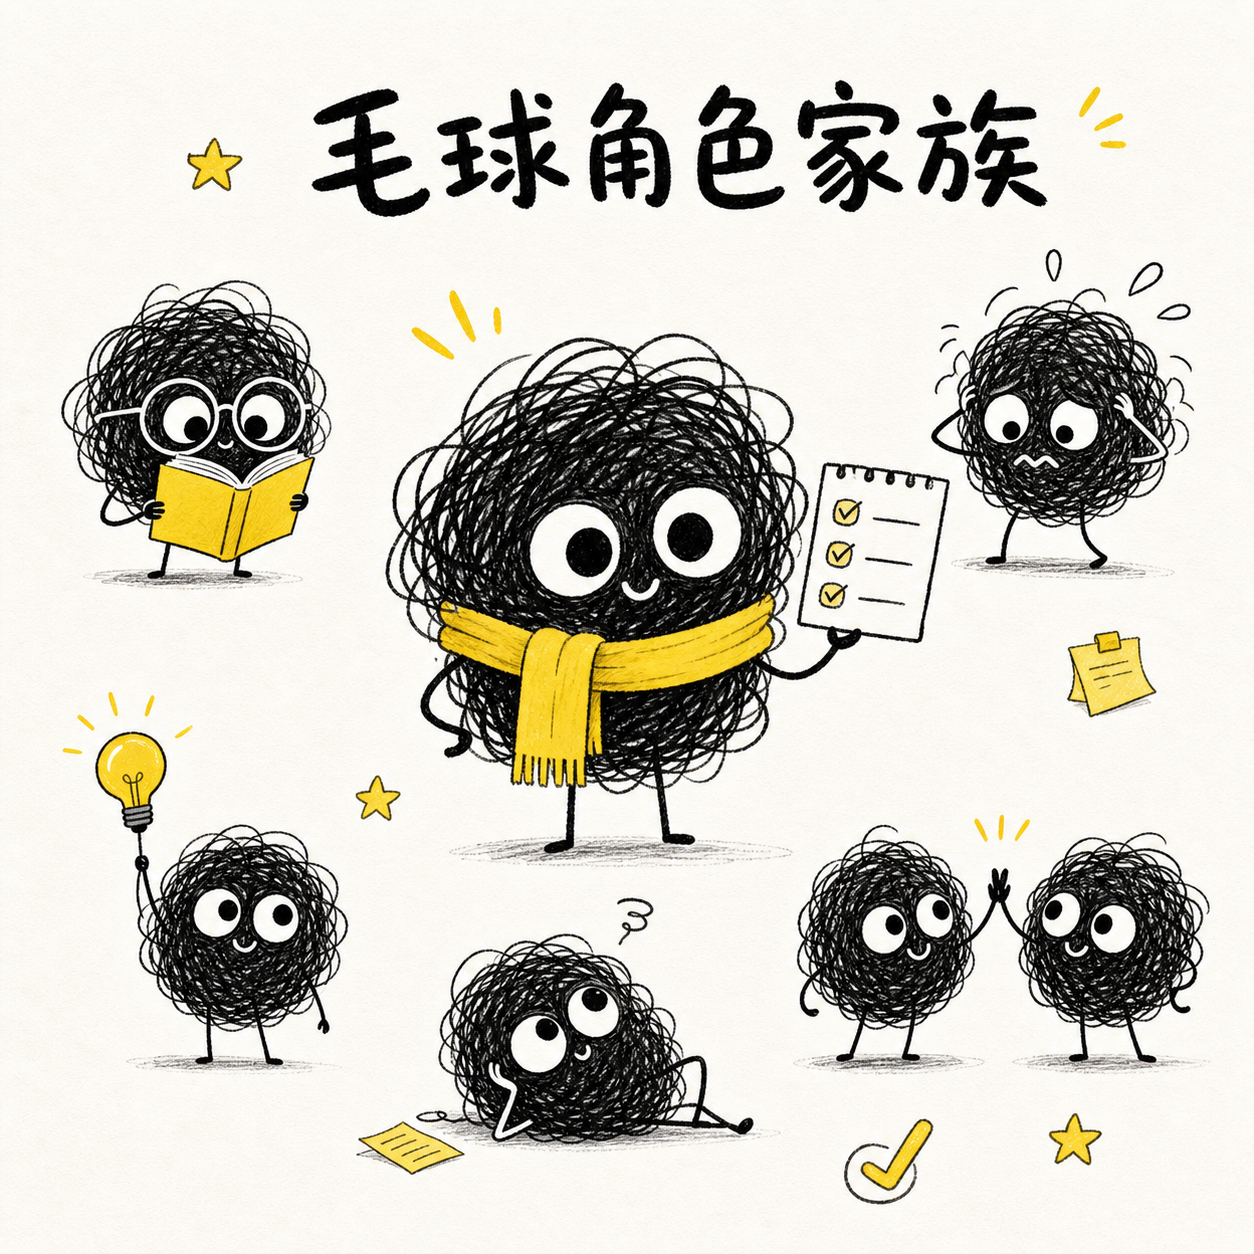
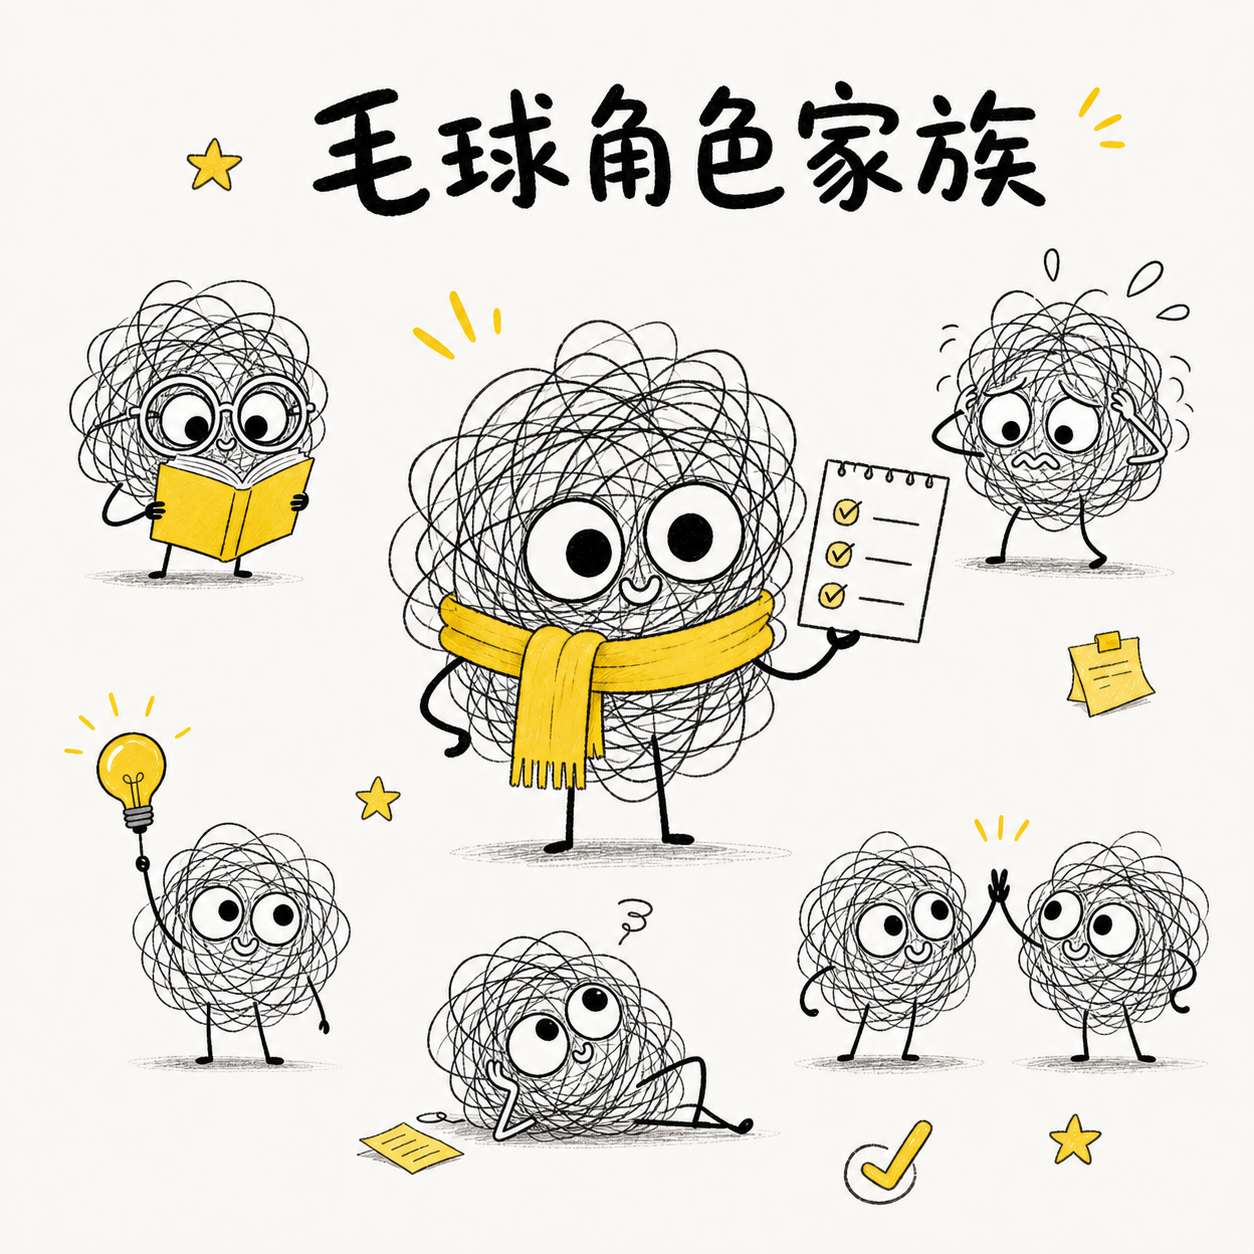
Lighten style 49 furball linework

diff --git a/scripts/prompt_schema.py b/scripts/prompt_schema.py
@@ -221,10 +221,10 @@ STYLE_ANCHORS: Dict[str, str] = {
         '整体风格为竖版线稿长图风：适合把流程、教程、规则、方法论、SOP、AI 工作流和项目复盘做成竖版 9:16 中文知识长图。画面使用白色或暖白纸张背景，顶部是粗黑大标题和短副标题，中段用 2x2 或纵向多面板卡片组织信息，底部放总结区或行动清单。视觉语言参考 modern editorial line system：黑白线稿人物、几何扁平比例、简单表情、城市生活/办公场景、代码窗口、文件夹、便签、放大镜、箭头、图标和规则卡。排版像中文杂志信息图：粗细线对比、圆角边框、编号黑色圆点、强层级、大留白，少量低饱和浅黄色、淡紫色、浅橙或浅绿色只用于强调块、提示框和状态标记。文字可以比普通配图更多，但必须短句化、分区清楚、可读；优先 4-6 个模块，每个模块只讲一个动作或判断。不要 PPT 模板感，不要密集小字，不要彩色卡通，不要 3D，不要写实光影，不要复杂渐变，不要水印。\nVertical editorial line infographic poster style: a 9:16 Chinese long-form knowledge poster with minimalist black-and-white line art characters, flat geometric proportions, bold magazine-like typography, rounded panels, numbered black dots, arrows, code windows, notes, folders, magnifier, checklist cards and sparse pastel accent blocks. White paper background, strong hierarchy, clean grid, generous negative space. Use soft yellow, muted purple, warm orange or pale green only for highlights and status areas. Build 4-6 clear modules, each showing one action, step or rule. Text must be short, readable and organized. Not PPT, not dense tiny copy, not colorful cartoon, not 3D, not realistic rendering, not busy gradients.'
     ),
     "scribble_furball_character_family": (
-        "整体风格为毛球角色家族风：暖白或浅色干净背景，大量留白，以黑色手绘乱线团作为统一角色原型。"
+        "整体风格为毛球角色家族风：暖白或浅色干净背景，大量留白，以稀松、透气的黑色手绘乱线团作为统一角色原型，线圈之间必须保留大量白色空隙。"
         "角色拥有超大黑白圆眼、极简四肢和一眼可读的情绪动作；家族成员可通过体形、表情、职业配件和道具区分，但都保留乱线团生命体的共同基因。"
-        "画面以黑白为骨架，只使用一种明亮点缀色，颜色集中在围巾、灯泡、便签、书本或小图标。整体呆萌、灵动、治愈、略带笨拙，具有可持续扩展的手绘 IP 感。"
-        "不要 3D，不要写实人物，不要复杂背景，不要厚重阴影，不要多色杂乱，不要普通 emoji 或贴纸风，不要让线团脏乱到影响识别。"
+        "毛球不能被反复描黑或填成实心黑块，内部约 55%-70% 保持白亮可见；画面以黑白为骨架，只使用一种明亮点缀色，颜色集中在围巾、灯泡、便签、书本或小图标。整体呆萌、灵动、治愈、略带笨拙，具有可持续扩展的手绘 IP 感。"
+        "不要 3D，不要写实人物，不要复杂背景，不要厚重阴影，不要多色杂乱，不要普通 emoji 或贴纸风，不要高密度短碎线、煤球感、厚重黑块或暗黑压抑气质，不要让线团脏乱到影响识别。"
     ),
     "cute_3d_plastic_icon": (
         "3D 新拟物风小图标：主体是圆润可爱的 3D app icon，半哑光塑料或精致树脂材质，饱满圆角、柔和轮廓、轻微倒角、干净结构。"
@@ -1096,7 +1096,7 @@ def render_editorial_line_infographic_poster_body(spec: BodySpec) -> str:
 def render_scribble_furball_cover(spec: CoverSpec) -> str:
     return f"""请生成一张毛球角色家族风中文插画海报。
 主题是「{spec.title}」，标题准确写作「{spec.title}」，副标题是「{spec.subtitle}」。
-用一只黑色手绘乱线毛球作为主角，以「{spec.metaphor}」转译主题；搭配「{spec.elements}」。
+用一只稀松透气的黑色手绘乱线毛球作为主角，使用较少的长弧线和大环线松散交叠，内部保留大量白色空隙，以「{spec.metaphor}」转译主题；搭配「{spec.elements}」。
 角色拥有超大黑白圆眼、简洁四肢和强烈但讨喜的表情，动作是「{spec.character_action}」。可加入 2 到 5 个形体或配件不同的家族成员参与互动，所有成员保持统一乱线团生命体基因。
 黑白为骨架，只选一种明亮点缀色用于围巾、道具、便签和小图标；暖白背景，大量留白。提示气泡只写「{spec.speech_bubble}」，底部短句写「{spec.bottom_sentence}」。
 {STYLE_ANCHORS['scribble_furball_character_family']}"""
@@ -1106,7 +1106,7 @@ def render_scribble_furball_body(spec: BodySpec) -> str:
     return f"""请生成一张毛球角色家族风中文内容插画。
 主题是「{spec.title}」，采用「{spec.structure}」构图，用乱线毛球角色的表情、动作和互动解释「{spec.modules}」。
 主角动作是「{spec.character_action}」，必要注释是「{spec.notes}」，气泡短句是「{spec.speech_bubble}」，底部结论是「{spec.bottom_sentence}」。
-角色必须拥有黑色手绘乱线团身体、超大黑白圆眼和极简四肢；可用不同体形、表情、围巾、眼镜、书本、灯泡、便签或办公用品扩展家族成员。黑白为骨架，只使用一种明亮点缀色，背景干净留白，情绪一眼可读。
+角色必须拥有稀松透气的黑色手绘乱线团身体、超大黑白圆眼和极简四肢；线圈之间保留大量白色空隙，内部约 55%-70% 保持白亮可见，禁止涂成实心黑块；可用不同体形、表情、围巾、眼镜、书本、灯泡、便签或办公用品扩展家族成员。黑白为骨架，只使用一种明亮点缀色，背景干净留白，情绪一眼可读。
 {STYLE_ANCHORS['scribble_furball_character_family']}"""
 
 def render_icon(spec: IconSpec) -> str:
@@ -1739,6 +1739,7 @@ def self_test() -> None:
     assert furball["style_name"] == "毛球角色家族风"
     assert furball["aspect_ratio"] == "1:1"
     assert "黑色手绘乱线团" in furball["prompt"]
+    assert "55%-70% 保持白亮可见" in furball["prompt"]
     print("self-test passed")
 
 

diff --git a/references/style_options.md b/references/style_options.md
@@ -55,7 +55,7 @@
     {"style_id": "premium_product_ad_poster", "style_name": "产品海报风", "best_for": ["电商主图", "新品发布海报", "品牌广告", "产品卖点图", "详情页首屏", "小红书产品封面", "科技产品海报", "时尚产品广告", "运动装备海报", "功能拆解图", "产品概念视觉", "AI产品包装图"], "not_best_for": ["纯情绪短句", "文学概念海报", "复杂流程图", "时间演化图", "水墨禅意图", "手绘知识卡", "怪诞小人流程图"], "core_features": ["竖版商业海报", "产品绝对主角", "高质量产品摄影", "超真实CGI", "专业棚拍光线", "巨大标题", "卖点标注", "功能图标", "时尚人物", "夸张尺度", "极端场景", "爆炸拆解", "微缩人物互动", "高级品牌感"]},
     {"style_id": "glyph_object_imagery", "style_name": "字物意象风", "best_for": ["中文金句", "观点短句", "品牌口号", "成语祝福", "情绪短句", "文字造物", "创意字体图", "社媒传播图", "东方趣味视觉符号"], "not_best_for": ["复杂流程图", "多节点知识卡片", "数据图表", "真实产品广告", "长篇正文海报", "纯写实插画"], "core_features": ["文字参与造型", "文字和物品融合", "具象隐喻物", "粗黑手写书法", "极简线稿", "少量点睛色", "红色印章", "大量留白", "幽默意境", "清晰可读"]},
     {"style_id": "editorial_line_infographic_poster", "style_name": "竖版线稿长图风", "best_for": ["竖版教程长图", "SOP", "规则卡", "项目复盘", "AI工作流", "多步骤方法论", "知识海报", "手机端阅读长图"], "not_best_for": ["纯情绪海报", "真实产品广告", "单一大字概念海报", "复杂数据图表", "写实场景插画"], "core_features": ["竖版9:16", "黑白线稿人物", "粗黑中文标题", "2x2或纵向多面板", "圆角信息卡片", "编号黑点", "箭头连接", "少量浅黄淡紫强调块", "底部总结区", "手机端可读"]},
-    {"style_id": "scribble_furball_character_family", "style_name": "毛球角色家族风", "best_for": ["情绪表达", "知识卡片", "办公状态", "教育内容", "品牌IP", "角色设定", "社媒传播图"], "not_best_for": ["写实人物", "复杂数据图表", "高端产品摄影", "多色复杂背景", "严肃财经报告"], "core_features": ["黑色手绘乱线团", "超大黑白圆眼", "极简四肢", "强情绪动作", "角色家族系统", "黑白骨架", "单一亮色点缀", "干净留白", "治愈呆萌", "高识别IP感"]}
+    {"style_id": "scribble_furball_character_family", "style_name": "毛球角色家族风", "best_for": ["情绪表达", "知识卡片", "办公状态", "教育内容", "品牌IP", "角色设定", "社媒传播图"], "not_best_for": ["写实人物", "复杂数据图表", "高端产品摄影", "多色复杂背景", "严肃财经报告"], "core_features": ["稀松透气的黑色手绘乱线团", "内部大量白色空隙", "超大黑白圆眼", "极简四肢", "强情绪动作", "角色家族系统", "黑白骨架", "单一亮色点缀", "干净留白", "治愈呆萌", "高识别IP感"]}
   ]
 }
 ```
@@ -534,10 +534,10 @@ Prompt 模板：
 
 不适合：写实人物、复杂数据图表、高端产品摄影、多色复杂背景、严肃财经报告。它的强项是角色化转译与情绪共鸣，不是写实还原。
 
-核心：黑色手绘乱线团身体、超大黑白圆眼、极简四肢、强情绪动作。家族成员可在体形、表情、性格、职业、年龄、关系和配件上变化，但必须保留统一的乱线团生命体基因。
+核心：稀松透气的黑色手绘乱线团身体、超大黑白圆眼、极简四肢、强情绪动作。线团由较少的长弧线和大环线松散交叠，内部约 55%-70% 保持白亮可见，不能反复描黑或填成实心黑块。家族成员可在体形、表情、性格、职业、年龄、关系和配件上变化，但必须保留统一的乱线团生命体基因。
 
 配色与版式：白色、米白或极浅暖色背景，黑白为骨架，只使用 1 种高明度点缀色，最多 2 种。颜色集中在围巾、帽子、眼镜、灯泡、便签、书本和小图标；留白舒适，避免复杂场景与满版纹理。
 
-视觉规则：情绪必须一眼可读；线条自然松弛、略有抖动，但不能脏乱到影响角色识别；整体呆萌、灵动、真诚、略带笨拙和治愈感。不要 3D、写实、普通 emoji、贴纸套壳、低幼婴儿风或过度精致商业插画。
+视觉规则：情绪必须一眼可读；线条自然松弛、略有抖动，线圈之间必须保留大量清晰白色空隙，但不能脏乱到影响角色识别；整体呆萌、灵动、真诚、略带笨拙和治愈感。不要 3D、写实、普通 emoji、贴纸套壳、低幼婴儿风或过度精致商业插画；不要高密度短碎线、煤球感、厚重黑块或暗黑压抑气质。
 
 结构化字段建议：主题、角色性格或职业、核心情绪、主动作、互动关系、道具、点缀色、标题、短句、画幅。

diff --git a/SKILL.md b/SKILL.md
@@ -84,7 +84,7 @@ description: zscc配图生成器；当用户提到封面、正文配图、配图
 - `premium_product_ad_poster`：产品海报风；适合电商主图、新品发布海报、品牌广告、产品卖点图、功能拆解图。
 - `glyph_object_imagery`：字物意象风；适合中文金句、观点短句、品牌口号、成语祝福、情绪短句、文字造物、创意字体图。
 - `editorial_line_infographic_poster`：竖版线稿长图风；适合竖版教程长图、SOP、规则卡、项目复盘、AI工作流、多步骤方法论、手机端知识海报。
-- `scribble_furball_character_family`：毛球角色家族风；适合情绪表达、知识卡片、办公状态、教育内容、品牌 IP、角色设定和社媒传播图。
+- `scribble_furball_character_family`：毛球角色家族风；以稀松透气、保留大量白色空隙的乱线团为角色原型；适合情绪表达、知识卡片、办公状态、教育内容、品牌 IP、角色设定和社媒传播图。
 
 logo/图标模式专用 style_id：
 
